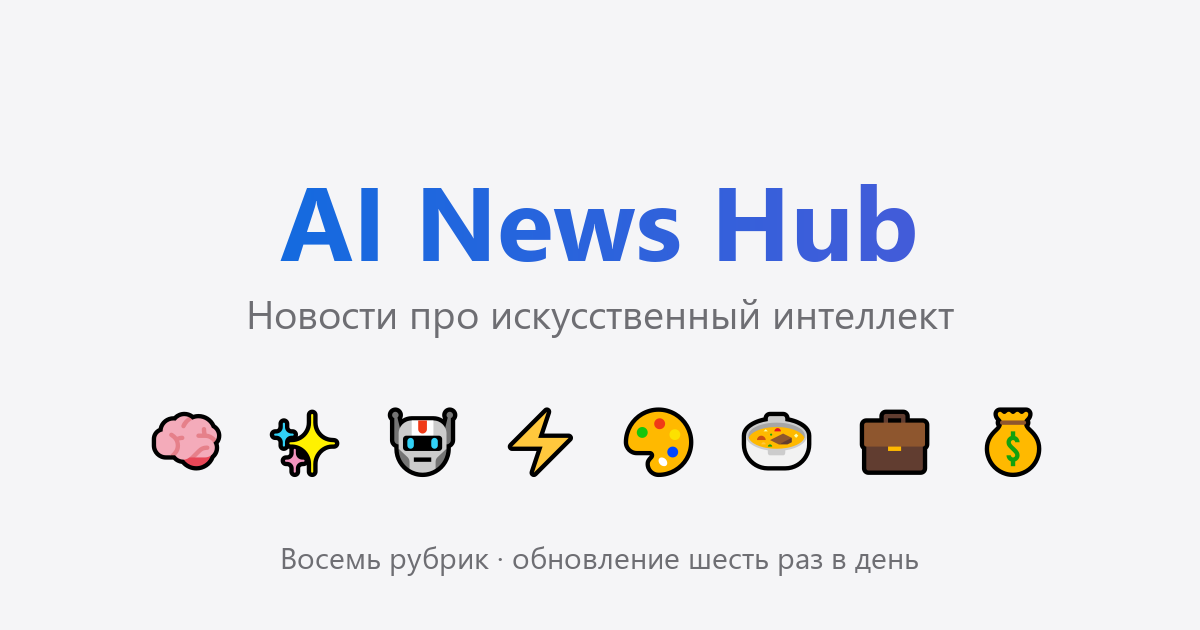
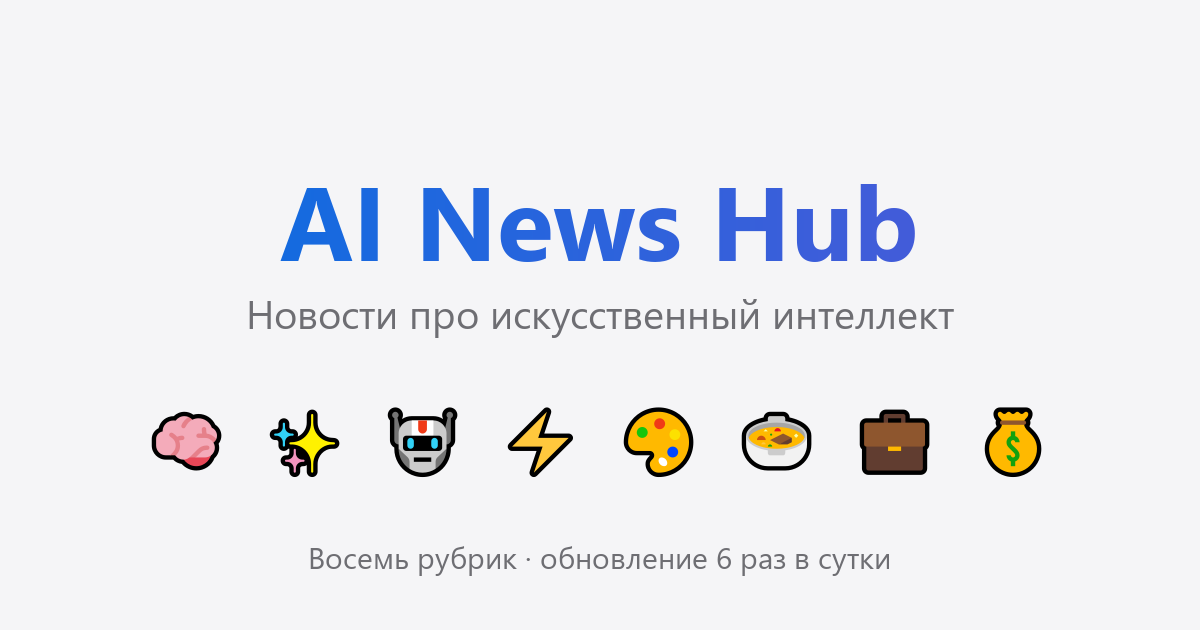
Картинка предпросмотра: подпись «6 раз в сутки» вместо «шесть раз в день»
Текст на картинке запечён в пиксели и живёт отдельно от текста страниц, поэтому
правка описания карточки его не затронула. Пользователь увидел расхождение
именно на картинке: в сообщении формулировка уже была новая, а на картинке
осталась старая.

Генератор картинки положен в репозиторий — make_og_image.py. Раньше картинка
была бинарником без источника, и перерисовать её было нечем. Скрипт ручной,
нужен Pillow и шрифты Windows, в сборку не входит: сайт по-прежнему собирается
одной стандартной библиотекой.

Тесты: 112 → 114. Оба новых сверяют формулировку частоты со страницей
«О проекте», где она написана посетителю: один — в описании карточки, второй —
в подписи NOTE у генератора картинки. Проверено, что на старой подписи они
падают.

Changed region(s): [[0.2158, 0.8746, 0.7708, 0.9349]]

diff --git a/make_og_image.py b/make_og_image.py
@@ -1,0 +1,91 @@
+# -*- coding: utf-8 -*-
+"""Картинка для карточки предпросмотра ссылки (og-image.png).
+
+Запуск вручную, из корня проекта:
+
+    python make_og_image.py
+
+Нужен Pillow и шрифты Windows. **В сборку этот файл не входит**: сам сайт
+собирается только стандартной библиотекой, а картинка — готовая, лежит рядом
+в репозитории. Скрипт нужен, чтобы её можно было перерисовать: текст на
+картинке запечён в пиксели, и если на сайте меняется формулировка, картинку
+надо перерисовать, иначе она начнёт расходиться со страницей.
+
+Так уже было: в описании карточки стояло «6 раз в сутки», а на картинке
+осталось «шесть раз в день», и это заметил пользователь.
+
+Размер 1200×630 — стандарт карточки предпросмотра (1.91:1).
+"""
+import os
+
+from PIL import Image, ImageDraw, ImageFont
+
+BASE_DIR = os.path.dirname(os.path.abspath(__file__))
+OUT = os.path.join(BASE_DIR, "og-image.png")
+
+W, H = 1200, 630
+
+# Цвета взяты с самого сайта: фон страницы и градиент заголовка.
+BG = (245, 245, 247)
+TEXT2 = (110, 110, 115)
+GRAD_FROM = (0, 113, 227)
+GRAD_TO = (88, 86, 214)
+
+FONT_BOLD = r"C:\Windows\Fonts\segoeuib.ttf"
+FONT_REG = r"C:\Windows\Fonts\segoeui.ttf"
+FONT_EMOJI = r"C:\Windows\Fonts\seguiemj.ttf"
+
+TITLE = "AI News Hub"
+SUBTITLE = "Новости про искусственный интеллект"
+NOTE = "Восемь рубрик · обновление 6 раз в сутки"
+
+# Значки рубрик — те же, что в CATEGORIES у сборщика.
+CATS = ["\U0001F9E0", "\u2728", "\U0001F916", "\u26A1",
+        "\U0001F3A8", "\U0001F372", "\U0001F4BC", "\U0001F4B0"]
+
+
+def gradient(width, height):
+    """Горизонтальный градиент — как у заголовка на сайте."""
+    g = Image.new("RGB", (width, height))
+    d = ImageDraw.Draw(g)
+    for x in range(width):
+        t = x / max(1, width - 1)
+        d.line([(x, 0), (x, height)], fill=tuple(
+            int(a + (b - a) * t) for a, b in zip(GRAD_FROM, GRAD_TO)))
+    return g
+
+
+def build():
+    im = Image.new("RGB", (W, H), BG)
+    d = ImageDraw.Draw(im)
+
+    title_font = ImageFont.truetype(FONT_BOLD, 104)
+    sub_font = ImageFont.truetype(FONT_REG, 40)
+    emoji_font = ImageFont.truetype(FONT_EMOJI, 62)
+    note_font = ImageFont.truetype(FONT_REG, 30)
+
+    # Заголовок рисуем маской, а градиент заливаем через неё.
+    mask = Image.new("L", (W, H), 0)
+    ImageDraw.Draw(mask).text((W / 2, 218), TITLE, font=title_font,
+                              fill=255, anchor="mm")
+    im.paste(gradient(W, H), (0, 0), mask)
+
+    d.text((W / 2, 312), SUBTITLE, font=sub_font, fill=TEXT2, anchor="mm")
+
+    step = 118
+    left = W / 2 - step * (len(CATS) - 1) / 2
+    for i, emoji in enumerate(CATS):
+        # embedded_color обязателен: без него эмодзи выходят чёрными.
+        d.text((left + i * step, 448), emoji, font=emoji_font,
+               anchor="mm", embedded_color=True)
+
+    d.text((W / 2, 556), NOTE, font=note_font, fill=TEXT2, anchor="mm")
+
+    im.save(OUT)
+    return im
+
+
+if __name__ == "__main__":
+    im = build()
+    size = os.path.getsize(OUT)
+    print(f"[OK] {OUT} — {im.size[0]}x{im.size[1]}, {round(size / 1024)} КБ")

diff --git a/tests/test_rules.py b/tests/test_rules.py
@@ -636,6 +636,34 @@ class LinkPreview(unittest.TestCase):
         block = c.og_meta_block('тест "кавычка"', 'тест "кавычка"', c.SITE_URL)
         self.assertIn("&quot;кавычка&quot;", block)
 
+    @staticmethod
+    def _site_frequency(root):
+        """Частота обновления так, как она написана посетителю на сайте.
+
+        Единственное место, где она написана словами, — страница «О проекте».
+        Всё остальное (описание карточки, подпись на картинке) обязано с ней
+        совпадать, иначе получается «6 раз в сутки» в одном месте и «шесть раз
+        в день» в другом.
+        """
+        with open(os.path.join(root, "about", "index.html"), encoding="utf-8") as f:
+            page = f.read()
+        found = re.search(r"автоматически\s+(\d+\s+раз в сутки)", page)
+        assert found, "на странице «О проекте» не нашлась формулировка частоты"
+        return found.group(1)
+
+    def test_the_card_description_repeats_the_site_wording(self):
+        self.assertIn(self._site_frequency(self.root), c.OG_MAIN_DESC)
+
+    def test_the_image_caption_repeats_the_site_wording(self):
+        # Текст на картинке запечён в пиксели и расходится с сайтом молча:
+        # так и вышло — в описании карточки уже стояло «6 раз в сутки»,
+        # а на картинке осталось «шесть раз в день».
+        with open(os.path.join(self.root, "make_og_image.py"), encoding="utf-8") as f:
+            src = f.read()
+        found = re.search(r'^NOTE = "(.*)"', src, re.M)
+        self.assertIsNotNone(found, "в make_og_image.py не нашлась подпись NOTE")
+        self.assertIn(self._site_frequency(self.root), found.group(1))
+
     def test_image_file_is_in_the_project(self):
         path = os.path.join(self.root, "og-image.png")
         self.assertTrue(os.path.exists(path), "нет og-image.png")
